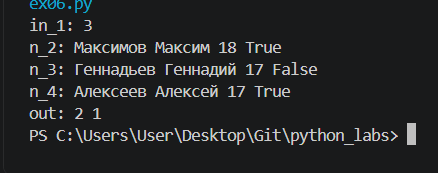
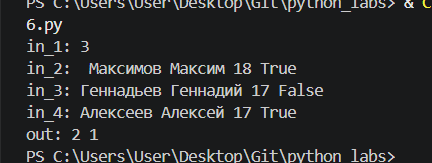
lll

Changed region(s): [[0.0602, 0.2147, 0.963, 0.8589], [0.0602, 0.9202, 0.9329, 1.0], [0.0602, 0.0, 1.0, 0.2147]]

diff --git a/scr/lab01/ex06.py b/scr/lab01/ex06.py
@@ -2,7 +2,7 @@ n=int(input('in_1: '))
 ochn=0
 zaochn=0
 for i in range(n):
-    stroka=input(f'n_{i+2}: ')
+    stroka=input(f'in_{i+2}: ')
     d=stroka.split()
     format=d[-1]
     if format=='True':
